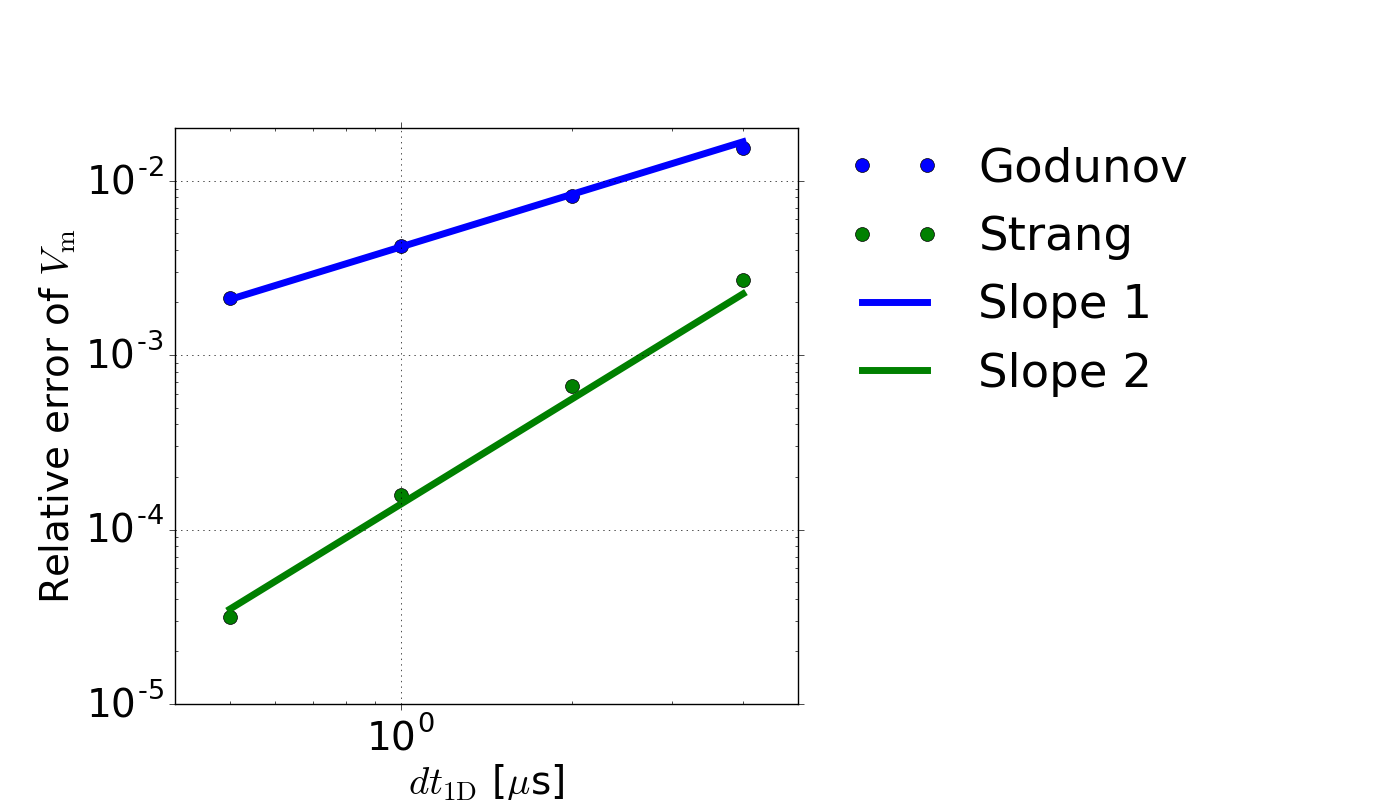
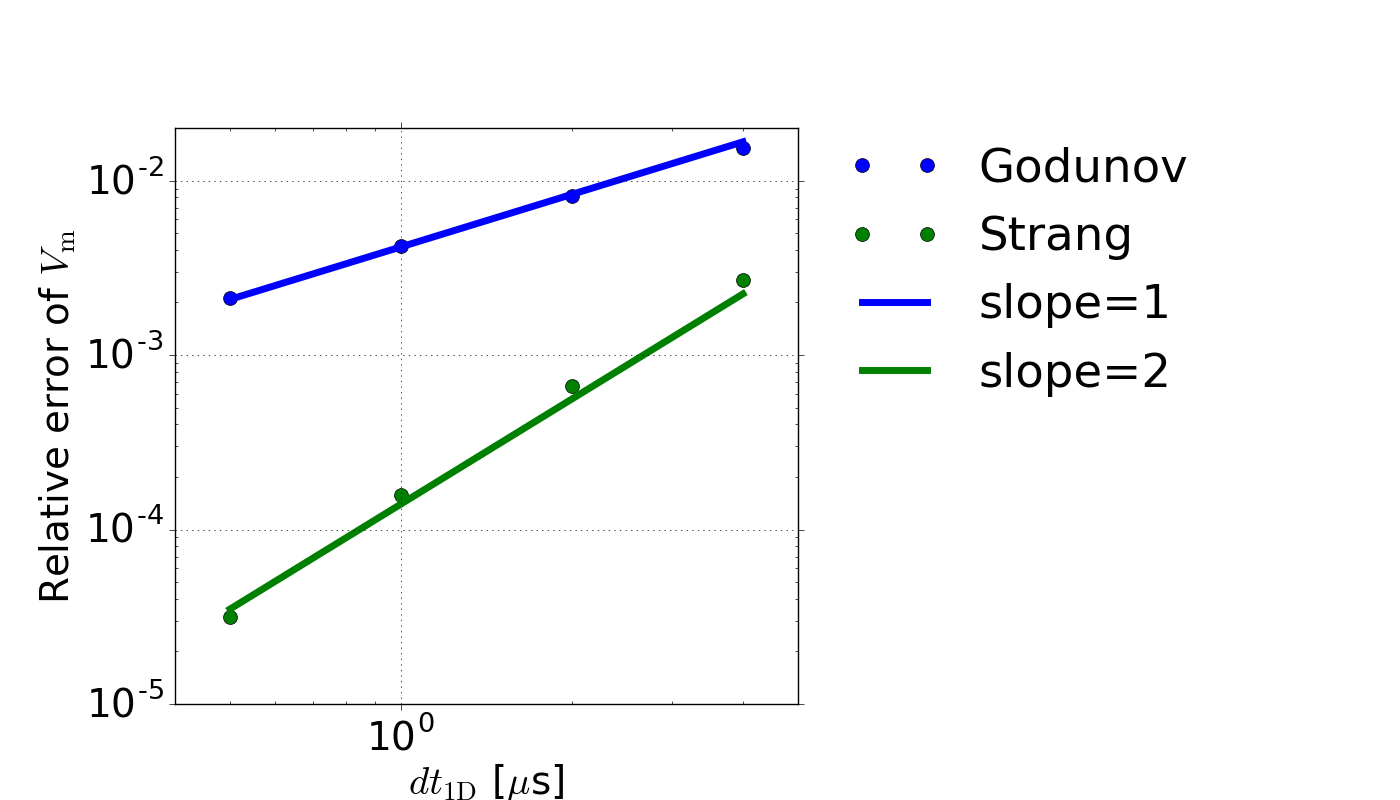
Update plot 6

Changed region(s): [[0.6757, 0.4375, 0.8293, 0.5], [0.7064, 0.3438, 0.8293, 0.4062]]

diff --git a/0Dconvergence/Fig6/plot_paper.py b/0Dconvergence/Fig6/plot_paper.py
@@ -23,8 +23,8 @@ plt.rcParams['lines.markersize'] = 10
 
 plt.plot(data1[:,3], (abs((data1[:,2]+23.5219216213)/23.5219216213)), 'bo', label=r"Godunov")
 plt.plot(data3[:,3], (abs((data3[:,2]+23.5219216213)/23.5219216213)), 'go', label=r"Strang")
-plt.plot(data1[:,3], data1[:,3]/240., 'b-', label=r"Slope 1")
-plt.plot(data1[:,3], data1[:,4]+0.4*data1[:,4], 'g-', label=r"Slope 2")
+plt.plot(data1[:,3], data1[:,3]/240., 'b-', label=r"slope=1")
+plt.plot(data1[:,3], data1[:,4]+0.4*data1[:,4], 'g-', label=r"slope=2")
 
 ax = plt.gca()
 ax.set_xscale('log', basey=10) 
@@ -169,7 +169,7 @@ if not paper_no_legend:
 
 #ax.set_xticks(np.linspace(000,60000,5))
 
-plt.xlabel('Number of 1D elements per fibre, $s_x$')
+plt.xlabel('Number of 1D elements per fiber, $s_x$')
 ax.xaxis.set_label_coords(0.5, -0.1)
 plt.ylabel('Runtime (s)')
 #plt.legend(loc='best')

diff --git a/0Dconvergence/Fig4/plot_paper.py b/0Dconvergence/Fig4/plot_paper.py
@@ -169,7 +169,7 @@ if not paper_no_legend:
 
 #ax.set_xticks(np.linspace(000,60000,5))
 
-plt.xlabel('Number of 1D elements per fibre, $s_x$')
+plt.xlabel('Number of 1D elements per fiber, $s_x$')
 ax.xaxis.set_label_coords(0.5, -0.1)
 plt.ylabel('Runtime (s)')
 #plt.legend(loc='best')

diff --git a/0Dconvergence/Fig5/plot_paper.py b/0Dconvergence/Fig5/plot_paper.py
@@ -169,7 +169,7 @@ if not paper_no_legend:
 
 #ax.set_xticks(np.linspace(000,60000,5))
 
-plt.xlabel('Number of 1D elements per fibre, $s_x$')
+plt.xlabel('Number of 1D elements per fiber, $s_x$')
 ax.xaxis.set_label_coords(0.5, -0.1)
 plt.ylabel('Runtime (s)')
 #plt.legend(loc='best')

diff --git a/0Dconvergence/Fig7/plot_paper.py b/0Dconvergence/Fig7/plot_paper.py
@@ -169,7 +169,7 @@ if not paper_no_legend:
 
 #ax.set_xticks(np.linspace(000,60000,5))
 
-plt.xlabel('Number of 1D elements per fibre, $s_x$')
+plt.xlabel('Number of 1D elements per fiber, $s_x$')
 ax.xaxis.set_label_coords(0.5, -0.1)
 plt.ylabel('Runtime (s)')
 #plt.legend(loc='best')
